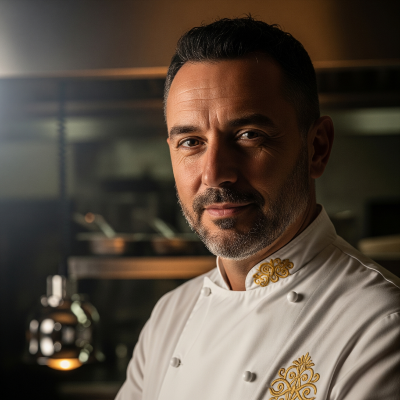
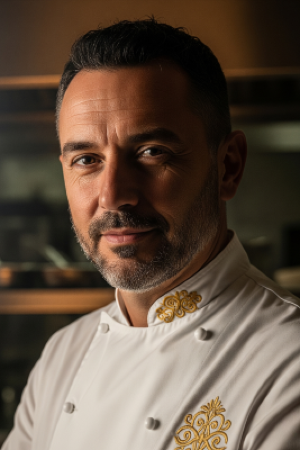
Make the history block a separate module. Add styles.

diff --git a/src/pages/third-page/about.js b/src/pages/third-page/about.js
@@ -1,6 +1,5 @@
 import "./about.css";
-import ChiefImage from "./assets/boss.webp";
-import Inspiration from "./assets/inspiration.webp";
+import createHistorySection from "./about-us-modules/createHistorySection";
 
 export default function createAboutPage() {
   const fragment = document.createDocumentFragment();
@@ -15,62 +14,7 @@ export default function createAboutPage() {
   subtitle.textContent = "History of Taste and Light";
 
   heroSection.append(heading, subtitle);
-
-  const historySection = document.createElement("section");
-  historySection.classList.add("our-history");
-
-  const rowFirst = document.createElement("div");
-  rowFirst.classList.add("our-history__row");
-
-  const imgChief = document.createElement("img");
-  imgChief.src = ChiefImage;
-  imgChief.alt =
-    "A confident Italian man in his 40s in a white uniform with golden embroidery.";
-  imgChief.classList.add("our-history__image");
-  imgChief.classList.add("our-history__image--1");
-
-  const historyBlock = document.createElement("div");
-  historyBlock.classList.add("history-block");
-
-  const titleHistory = document.createElement("h2");
-  titleHistory.textContent = "Our Philosophy";
-
-  const upperTextHistory = document.createElement("p");
-  upperTextHistory.textContent =
-    "Our restaurant was born from a dream to unite classic Italian cuisine with an atmosphere of coziness and elegance. Every dish here is a journey into the heart of Italy, where pasta is made by hand, sauces are simmered for hours, and wine is chosen to perfectly complement every moment.";
-
-  const lowerTextHistory = document.createElement("p");
-  lowerTextHistory.textContent =
-    "Lumino is a place where candles flicker, soft music plays, and time slows down, allowing you to savor the true art of taste.";
-
-  historyBlock.append(titleHistory, upperTextHistory, lowerTextHistory);
-
-  rowFirst.append(imgChief, historyBlock);
-
-  const rowSecond = document.createElement("div");
-  rowSecond.classList.add("our-history__row");
-
-  const inspirationBlock = document.createElement("div");
-  inspirationBlock.classList.add("inspiration-block");
-
-  const titleInspiration = document.createElement("h2");
-  titleInspiration.textContent = "Our Philosophy";
-
-  const textInspiration = document.createElement("p");
-  textInspiration.textContent =
-    "We are inspired by light that creates an atmosphere. Every room at LUMINO has details that make an evening special: candles on the tables, white walls with golden frames, and large windows that reveal the city lights. This is not just a restaurant — it is a setting for your memories.";
-
-  const imgInspiration = document.createElement("img");
-  imgInspiration.src = Inspiration;
-  imgInspiration.alt =
-    "Restaurant interior with a table set with flowers and candles, against a window showing the city lights. The walls are white with gold accents.";
-  imgInspiration.classList.add("our-history__image");
-  imgInspiration.classList.add("our-history__image--2");
-
-  inspirationBlock.append(titleInspiration, textInspiration);
-  rowSecond.append(inspirationBlock, imgInspiration);
-
-  historySection.append(rowFirst, rowSecond);
+  const historySection = createHistorySection();
 
   fragment.append(heroSection, historySection);
   return fragment;

diff --git a/src/pages/third-page/about-us-modules/createHistorySection.js b/src/pages/third-page/about-us-modules/createHistorySection.js
@@ -1,0 +1,57 @@
+import ChiefImage from "../assets/boss.webp";
+import Inspiration from "../assets/inspiration.webp";
+
+export default function createHistorySection() {
+  const historySection = document.createElement("section");
+  historySection.classList.add("our-history");
+
+  const imgChief = document.createElement("img");
+  imgChief.src = ChiefImage;
+  imgChief.alt =
+    "A confident Italian man in his 40s in a white uniform with golden embroidery.";
+  imgChief.classList.add("our-history__image");
+  imgChief.classList.add("our-history__image--1");
+
+  const historyBlock = document.createElement("div");
+  historyBlock.classList.add("history-block");
+
+  const titleHistory = document.createElement("h2");
+  titleHistory.textContent = "Our Philosophy";
+
+  const upperTextHistory = document.createElement("p");
+  upperTextHistory.textContent =
+    "Our restaurant was born from a dream to unite classic Italian cuisine with an atmosphere of coziness and elegance. Every dish here is a journey into the heart of Italy, where pasta is made by hand, sauces are simmered for hours, and wine is chosen to perfectly complement every moment.";
+
+  const lowerTextHistory = document.createElement("p");
+  lowerTextHistory.textContent =
+    "Lumino is a place where candles flicker, soft music plays, and time slows down, allowing you to savor the true art of taste.";
+
+  historyBlock.append(titleHistory, upperTextHistory, lowerTextHistory);
+
+  const inspirationBlock = document.createElement("div");
+  inspirationBlock.classList.add("inspiration-block");
+
+  const titleInspiration = document.createElement("h2");
+  titleInspiration.textContent = "Our Inspiration";
+
+  const textInspiration = document.createElement("p");
+  textInspiration.textContent =
+    "We are inspired by light that creates an atmosphere. Every room at Lumino has details that make an evening special: candles on the tables, white walls with golden frames, and large windows that reveal the city lights. This is not just a restaurant — it is a setting for your memories.";
+
+  const imgInspiration = document.createElement("img");
+  imgInspiration.src = Inspiration;
+  imgInspiration.alt =
+    "Restaurant interior with a table set with flowers and candles, against a window showing the city lights. The walls are white with gold accents.";
+  imgInspiration.classList.add("our-history__image");
+  imgInspiration.classList.add("our-history__image--2");
+
+  inspirationBlock.append(titleInspiration, textInspiration);
+
+  historySection.append(
+    imgChief,
+    historyBlock,
+    inspirationBlock,
+    imgInspiration
+  );
+  return historySection;
+}

diff --git a/src/pages/third-page/about.css b/src/pages/third-page/about.css
@@ -9,7 +9,6 @@ body.page-about #content {
 
 body.page-about nav {
   position: absolute;
-  /* top: -3%; */
   left: 28%;
   z-index: 2;
   color: white;
@@ -32,5 +31,65 @@ body.page-about nav {
   align-items: center;
   flex-direction: column;
   color: white;
-  /* padding-top: 10%; */
+}
+
+.our-history {
+  display: grid;
+  grid-template-columns: repeat(3, 1fr);
+  grid-template-rows: repeat(2, auto);
+  column-gap: 20px;
+  row-gap: 5rem;
+  margin-top: 5%;
+  margin-bottom: 5%;
+  align-items: center;
+  justify-items: center;
+}
+
+.our-history__image--1 {
+  grid-column: 1 / 2;
+  grid-row: 1 / 3;
+}
+
+.history-block {
+  grid-column: 2 / 3;
+  grid-row: 1 / 2;
+}
+
+.history-block,
+.inspiration-block {
+  max-width: 500px;
+  text-align: left;
+}
+
+.history-block h2,
+.inspiration-block h2 {
+  font-size: 2.2rem;
+  color: #333;
+  margin-bottom: 1.5rem;
+}
+
+.history-block p,
+.inspiration-block p {
+  font-size: 1rem;
+  line-height: 1.6;
+  color: #555;
+}
+
+.history-block p:not(:last-child) {
+  margin-bottom: 1rem;
+}
+
+.inspiration-block {
+  grid-column: 2 / 3;
+  grid-row: 2 / 3;
+}
+
+.our-history__image--2 {
+  grid-column: 3 / 4;
+  grid-row: 1 / 3;
+}
+
+.our-history__image {
+  border-radius: 20%;
+  display: block;
 }
